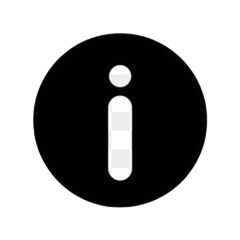
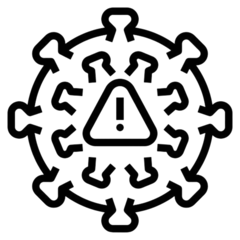
quarantine

diff --git a/ui/AVFrame.java b/ui/AVFrame.java
@@ -1,12 +1,12 @@
 package ui;
 
 import javax.swing.*;
+import javax.swing.table.DefaultTableModel;
+
 import java.awt.*;
 import java.io.File;
 import java.util.ArrayList;
 import java.util.HashMap;
-import core.DoScan;
-
 import core.*;
 
 @SuppressWarnings("serial")
@@ -14,9 +14,6 @@ public class AVFrame extends JFrame {
 
     // Destaque seleção de  botão
     private JButton selectedButton = null;
-
-    
-    
     private void selectMenuButton(JButton button) {
         if (selectedButton != null) {
             selectedButton.setBackground(Color.WHITE);
@@ -53,15 +50,22 @@ public class AVFrame extends JFrame {
         return sep;
     }
 
+    private void addThreat(DefaultTableModel model, String path, String date) {
+            if (model.getRowCount() >= 50) {
+                model.removeRow(0);
+            }
+            model.addRow(new Object[]{path, date});
+    }
+
     // Janela
     // ======================================================================
     AVFrame(String nome) {
 
         super(nome);
-
-        setSize(800, 600);
+        setSize(800, 610);
         // setDefaultCloseOperation(JFrame.EXIT_ON_CLOSE);
         setLayout(new BorderLayout());
+        setResizable(false);
 
         // Lateral Opções
         // ======================================================================
@@ -94,7 +98,7 @@ public class AVFrame extends JFrame {
         selectMenuButton(bl1);
 
         ImageIcon icon1 = new ImageIcon(
-            getClass().getResource("/ui/resource/icon4.png")
+            getClass().getResource("/ui/resource/icon1.png")
         );
         bl1.setIcon(icon1);
 
@@ -126,6 +130,20 @@ public class AVFrame extends JFrame {
         );
         bl3.setIcon(icon3);
 
+        JButton bl4 = new JButton("Quarantine");
+        bl4.setFont(menuFont);
+        bl4.setVerticalTextPosition(SwingConstants.BOTTOM);
+        bl4.setHorizontalTextPosition(SwingConstants.CENTER);
+        bl4.setBackground(Color.WHITE);
+        bl4.setOpaque(true);
+        bl4.setBorderPainted(false);
+        bl4.setFocusPainted(false);
+
+        ImageIcon icon4 = new ImageIcon(
+            getClass().getResource("/ui/resource/icon4.png")
+        );
+        bl4.setIcon(icon4);
+
         JButton about = new JButton("About");
         about.setFont(menuFont);
         about.setVerticalTextPosition(SwingConstants.BOTTOM);
@@ -135,10 +153,10 @@ public class AVFrame extends JFrame {
         about.setBorderPainted(false);
         about.setFocusPainted(false);
 
-        ImageIcon icon4 = new ImageIcon(
-            getClass().getResource("/ui/resource/icon4.png")
+        ImageIcon icon5 = new ImageIcon(
+            getClass().getResource("/ui/resource/icon5.png")
         );
-        about.setIcon(icon4);
+        about.setIcon(icon5);
 
         JButton scan = new JButton("Scan my Computer");
         scan.setFont(menuFont);
@@ -185,7 +203,6 @@ public class AVFrame extends JFrame {
             JDialog dialog = pane.createDialog(this, "Verifying");
             dialog.setModal(false);
             dialog.setDefaultCloseOperation(JDialog.DO_NOTHING_ON_CLOSE);
-
             dialog.setVisible(true);
 
             HashMap<Integer, String> threatFound = DoScan.scanFolder(folder);
@@ -253,12 +270,7 @@ public class AVFrame extends JFrame {
 
                 // Verifica se pelo menos um checkbox está selecionado
                 if (!temp.isSelected() && !downloads.isSelected() && !desktop.isSelected()) {
-                    JOptionPane.showMessageDialog(
-                        this,
-                        "Selecione pelo menos um diretório.",
-                        "Aviso",
-                        JOptionPane.WARNING_MESSAGE
-                    );
+                    JOptionPane.showMessageDialog(this, "Select at least one directory.", "Warning", JOptionPane.WARNING_MESSAGE);
                     return;
                 }
 
@@ -268,19 +280,19 @@ public class AVFrame extends JFrame {
 
                 // Exemplo de uso
                 if (temp.isSelected()) {
-                	Thread t1 = new Thread(new RealTimeAnalyzer("/tmp"));
+                	Thread t1 = new Thread(new RealTimeAnalyzer("G:\\Curse"));
                 	t1.start();
                 	threads[0] = t1;
                     System.out.println("Monitorando TEMP");
                 }
                 if (downloads.isSelected()) {
-                	Thread t2 = new Thread(new RealTimeAnalyzer("/home/kali/Downloads"));
+                	Thread t2 = new Thread(new RealTimeAnalyzer("G:\\Curse"));
                 	t2.start();
                 	threads[1] = t2;
                     System.out.println("Monitorando DOWNLOADS");
                 }
                 if (desktop.isSelected()) {
-                	Thread t3 = new Thread(new RealTimeAnalyzer("/home/kali/Desktop"));
+                	Thread t3 = new Thread(new RealTimeAnalyzer("G:\\Curse"));
                 	t3.start();
                 	threads[2] = t3;
                     System.out.println("Monitorando DESKTOP");
@@ -299,22 +311,27 @@ public class AVFrame extends JFrame {
         });
 
 
+
+
         // Tamanho dos botões
         Dimension blSize = new Dimension(160, 100);
 
         bl1.setMaximumSize(blSize);
         bl2.setMaximumSize(blSize);
         bl3.setMaximumSize(blSize);
+        bl4.setMaximumSize(blSize);
         about.setMaximumSize(blSize);
 
         bl1.setPreferredSize(blSize);
         bl2.setPreferredSize(blSize);
         bl3.setPreferredSize(blSize);
+        bl4.setPreferredSize(blSize);
         about.setPreferredSize(blSize);
 
         bl1.setAlignmentX(Component.LEFT_ALIGNMENT);
         bl2.setAlignmentX(Component.LEFT_ALIGNMENT);
         bl3.setAlignmentX(Component.LEFT_ALIGNMENT);
+        bl4.setAlignmentX(Component.LEFT_ALIGNMENT);
         about.setAlignmentX(Component.LEFT_ALIGNMENT);
 
         // Espaçamento e adicionando os botões ao Panel auxiliar
@@ -330,6 +347,10 @@ public class AVFrame extends JFrame {
         listTop.add(Box.createVerticalStrut(10));
         listTop.add(createSeparator());
         listTop.add(bl3);
+        listTop.add(createSeparator());
+        listTop.add(Box.createVerticalStrut(10));
+        listTop.add(createSeparator());
+        listTop.add(bl4);
         listTop.add(createSeparator());
         listTop.add(Box.createVerticalStrut(10));
         listTop.add(createSeparator());
@@ -429,24 +450,104 @@ public class AVFrame extends JFrame {
 
         t3.add(centerPanel3, BorderLayout.CENTER);
 
+        // ================= TELA 4 =================
+        JPanel t4 = new JPanel();
+        t4.setLayout(new BorderLayout());
+        t4.add(createHeader("Quarantine"), BorderLayout.NORTH);
+
+        String[] columns = {"File Location", "Date"};
+        DefaultTableModel quarantineModel = new DefaultTableModel(columns, 0) {
+            @Override
+            public boolean isCellEditable(int row, int column) {
+                return false; 
+            }   
+        };
+
+        JTable quarantineTable = new JTable(quarantineModel);
+        quarantineTable.setSelectionMode(ListSelectionModel.SINGLE_SELECTION);
+        quarantineTable.setRowHeight(22);
+        quarantineTable.getTableHeader().setReorderingAllowed(false);
+
+        JScrollPane scroll = new JScrollPane(quarantineTable);
+        scroll.setPreferredSize(new Dimension(500, 0));
+
+        JPanel actions = new JPanel();
+        actions.setLayout(new BoxLayout(actions, BoxLayout.Y_AXIS));
+        actions.setBorder(BorderFactory.createEmptyBorder(5, 5, 0, 5));
+
+        Dimension btnSize = new Dimension(160, 40);
+        JButton deleteBtn = new JButton("Delete");
+        deleteBtn.setFont(menuFont);
+        deleteBtn.setBackground(Color.WHITE);
+        deleteBtn.setFocusPainted(false);
+        deleteBtn.setOpaque(true);
+        deleteBtn.setAlignmentX(Component.CENTER_ALIGNMENT);
+        deleteBtn.setPreferredSize(btnSize);
+        deleteBtn.setMaximumSize(btnSize);
+        deleteBtn.setMinimumSize(btnSize);
+        deleteBtn.addActionListener(e -> {
+        int row = quarantineTable.getSelectedRow();
+            if (row == -1) {
+                JOptionPane.showMessageDialog(this, "Select a threat first.",  "Warning", JOptionPane.WARNING_MESSAGE);
+                return;
+            }
+        String path = (String) quarantineModel.getValueAt(row, 0);
+
+          //DELETA ARQUIVO AQUI
+
+        quarantineModel.removeRow(row);
+        });
+
+        JButton restoreBtn = new JButton("Restore");
+        restoreBtn.setFont(menuFont);
+        restoreBtn.setBackground(Color.WHITE);
+        restoreBtn.setFocusPainted(false);
+        restoreBtn.setOpaque(true);
+        restoreBtn.setAlignmentX(Component.CENTER_ALIGNMENT);
+        restoreBtn.setPreferredSize(btnSize);
+        restoreBtn.setMaximumSize(btnSize);
+        restoreBtn.setMinimumSize(btnSize);
+        restoreBtn.addActionListener(e -> {
+        int row = quarantineTable.getSelectedRow();
+        if (row == -1) {
+            JOptionPane.showMessageDialog(this, "Select a threat first.",  "Warning", JOptionPane.WARNING_MESSAGE);
+            return;
+        }
+        String path = (String) quarantineModel.getValueAt(row, 0);
+
+        //RESTAURA AQUI
+
+        quarantineModel.removeRow(row);
+        });
+
+        actions.add(deleteBtn);
+        actions.add(Box.createVerticalStrut(5));
+        actions.add(restoreBtn);
+
+        JPanel center = new JPanel(new BorderLayout());
+        center.add(scroll, BorderLayout.CENTER);
+        center.add(actions, BorderLayout.EAST);
+
+        t4.add(center, BorderLayout.CENTER);
+
         // ================= ABOUT =================
         JPanel tAbout = new JPanel();
         tAbout.setLayout(new BorderLayout());
         tAbout.add(createHeader("About"), BorderLayout.NORTH);
 
-        ImageIcon icon4p = new ImageIcon(
-            getClass().getResource("/ui/resource/icon4p.png")
+        ImageIcon icon5p = new ImageIcon(
+            getClass().getResource("/ui/resource/icon5p.png")
         );
 
-        JLabel iconLabel4 = new JLabel(icon4p);
-        iconLabel4.setHorizontalAlignment(SwingConstants.CENTER);
-        iconLabel4.setVerticalAlignment(SwingConstants.TOP);
-        iconLabel4.setAlignmentX(Component.CENTER_ALIGNMENT);
+        JLabel iconLabel5 = new JLabel(icon5p);
+        iconLabel5.setHorizontalAlignment(SwingConstants.CENTER);
+        iconLabel5.setVerticalAlignment(SwingConstants.TOP);
+        iconLabel5.setAlignmentX(Component.CENTER_ALIGNMENT);
 
         JPanel contentWrapper = new JPanel(new BorderLayout());
         contentWrapper.setOpaque(false);
         contentWrapper.setBorder(
-            BorderFactory.createEmptyBorder(0, 20, 0, 0)
+        BorderFactory.createEmptyBorder(0, 20, 0, 0)
         );
 
         JLabel aboutText = new JLabel(
@@ -462,6 +563,9 @@ public class AVFrame extends JFrame {
             "<h3>Real Time Analyzer</h3>" +
             "<p>Monitors the system in real time, analyzing changes in the selected folders.</p>" +
 
+            "<h3>Quarantine</h3>" +
+            "<p>Threats are moved to quarantine and user have to decide their destiny.</p>" +
+
         "</div>" +
         "</html>"
         );
@@ -472,7 +576,7 @@ public class AVFrame extends JFrame {
         centerPanel4.setLayout(new BoxLayout(centerPanel4, BoxLayout.Y_AXIS));
         centerPanel4.setOpaque(false);
         centerPanel4.add(Box.createVerticalStrut(30));
-        centerPanel4.add(iconLabel4);
+        centerPanel4.add(iconLabel5);
         centerPanel4.add(Box.createVerticalStrut(25));
         centerPanel4.add(aboutText);
 
@@ -495,6 +599,11 @@ public class AVFrame extends JFrame {
             selectMenuButton(bl3);
         });
 
+        bl4.addActionListener(e -> {
+            cardLayout.show(panelMain, "T4");
+            selectMenuButton(bl4);
+        });
+
         about.addActionListener(e -> {
             cardLayout.show(panelMain, "ABOUT");
             selectMenuButton(about);
@@ -504,6 +613,7 @@ public class AVFrame extends JFrame {
         panelMain.add(t1, "T1");
         panelMain.add(t2, "T2");
         panelMain.add(t3, "T3");
+        panelMain.add(t4, "T4");
         panelMain.add(tAbout, "ABOUT");
 
         // Adicionar na Janela
